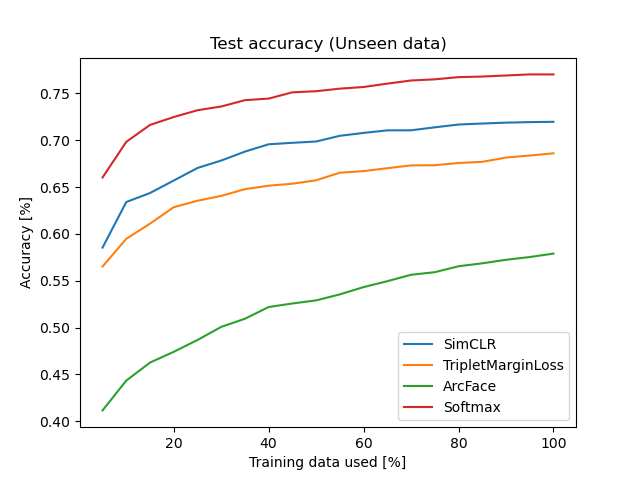
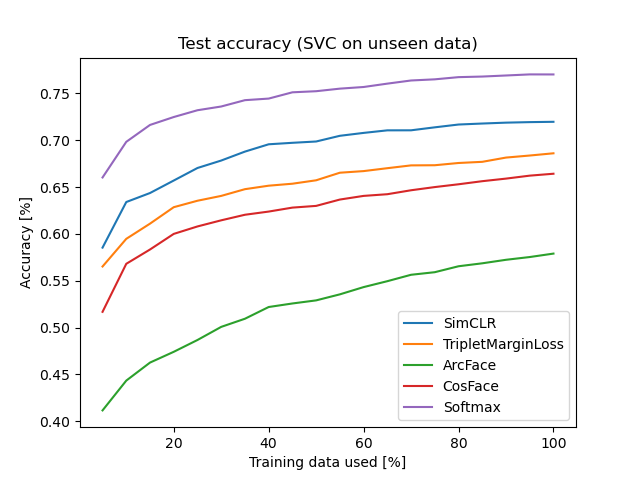
new plots

diff --git a/generate_final_plots.py b/generate_final_plots.py
@@ -19,5 +19,5 @@ for model in models.keys():
 val_plot = val_accuracies.plot(title="Validation accuracy (Seen data)", xlabel="Steps", ylabel="Accuracy [%]").get_figure()
 val_plot.savefig("figs/val_acc_all.png")
 
-test_plot = test_accuracies.plot(x="Dataset size", title="Test accuracy (Unseen data)", xlabel="Training data used [%]", ylabel="Accuracy [%]").get_figure()
+test_plot = test_accuracies.plot(x="Dataset size", title="Test accuracy (SVC on unseen data)", xlabel="Training data used [%]", ylabel="Accuracy [%]").get_figure()
 test_plot.savefig("figs/test_acc_all.png")
